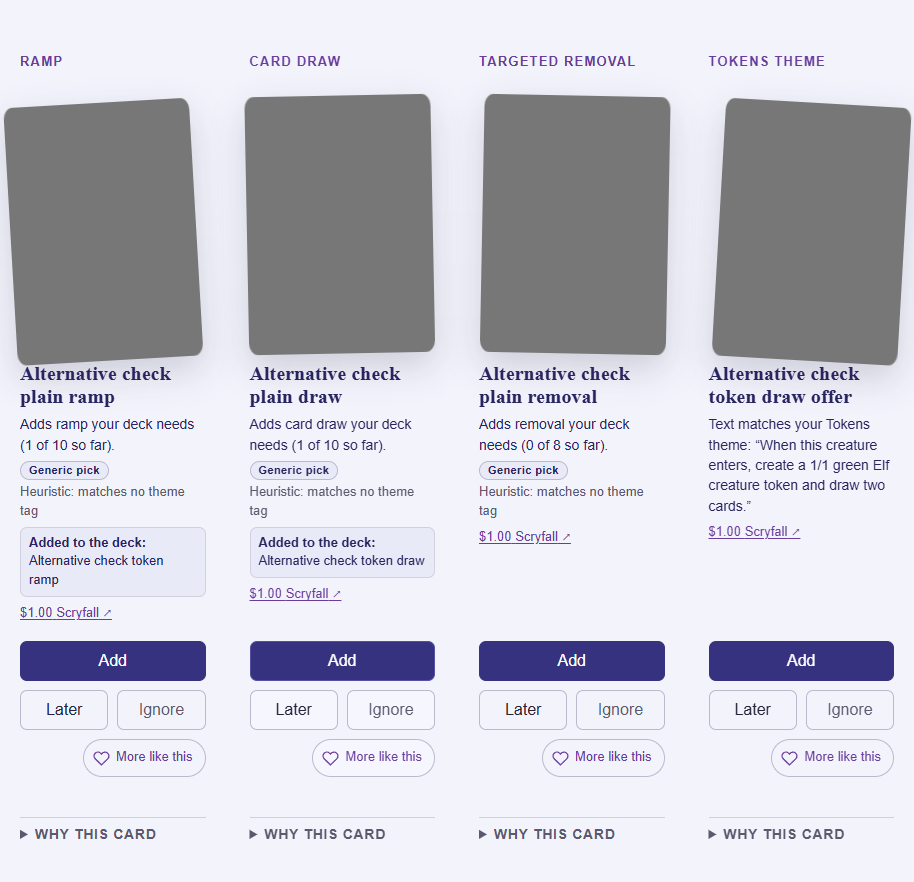
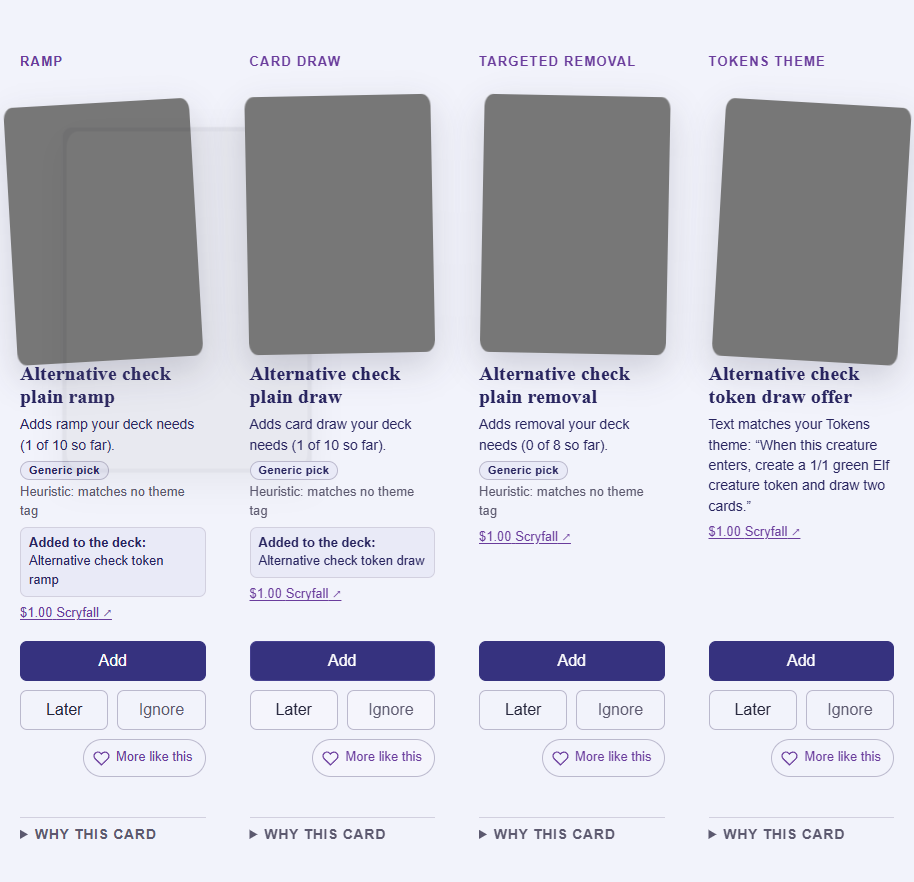
Address #563 review: skip unavailable Later entries and land cards
- Later entries the current pool or price cap excludes stay out of the
  alternative pool, as they stay out of the queue.
- Land cards never take part on either side, even when they also read
  as ramp or draw.
- An add error clears once the pool moves on to another card.
- The contrast gate closes Later & ignored with its close button: its
  state sweep leaves focus on the page, where Escape never reaches the
  dialog.

diff --git a/src/domain/theme-alternative.ts b/src/domain/theme-alternative.ts
@@ -17,20 +17,29 @@ export type ThemeAlternative = {
  * An on-theme card that shares a generic pick's detected role (#563), from the queue or the Later
  * list. Roles and theme tags are both text heuristics, so a match says the detectors agree, not that
  * the two cards do the same job equally well. The offer's roles are tried in detection order, and
- * the pool in its given order, so the first queued card wins over a Later one. Lands are left out:
- * the generic mark is about spells that could carry the theme.
+ * the pool in its given order, so the first queued card wins over a Later one. Land cards are left
+ * out on both sides, even when they also read as ramp or draw: the swap is between spells.
  */
 export function findThemeAlternative(
   offer: Card,
   themes: string[],
   pool: { card: Card; source: AlternativeSource }[],
 ): ThemeAlternative | null {
-  const roles = rolesForCard(offer).filter((role) => role !== 'lands')
-  // Only a generic pick gets one: a theme-matching offer is already on theme.
-  if (!themes.length || !roles.length || themes.some((theme) => hasTag(offer, theme))) return null
+  const offerRoles = rolesForCard(offer)
+  // Only a nonland generic pick gets one: a theme-matching offer is already on theme.
+  if (
+    !themes.length ||
+    offerRoles.includes('lands') ||
+    themes.some((theme) => hasTag(offer, theme))
+  )
+    return null
+  const roles = offerRoles as ThemeAlternative['role'][]
   for (const role of roles)
     for (const { card, source } of pool) {
-      if (card.name === offer.name || !rolesForCard(card).includes(role)) continue
+      const cardRoles = rolesForCard(card)
+      // A land that also reads as ramp or draw would swap a spell for a land slot.
+      if (card.name === offer.name || cardRoles.includes('lands') || !cardRoles.includes(role))
+        continue
       const matched = themes.filter((theme) => hasTag(card, theme))
       if (matched.length) return { card, role, themes: matched, source }
     }

diff --git a/src/domain/theme-alternative.test.ts b/src/domain/theme-alternative.test.ts
@@ -115,3 +115,27 @@ test('no alternative without a role, a pool match or a theme, or for a theme mat
   assert.equal(findThemeAlternative(signet, [], everything), null)
   assert.equal(findThemeAlternative(tokenDraw, ['Tokens'], everything), null)
 })
+
+test('land cards never take part, even when they also read as ramp (#563 review)', () => {
+  // Myriad Landscape's oracle id carries a land-ramp override, so it reads as land and ramp.
+  const landRamp = (name: string, tags: string[] = []) => ({
+    ...card(name, { type_line: 'Land', produced_mana: ['G'], oracle_text: '{T}: Add {G}.' }),
+    oracleId: '2549bc57-9ffb-4053-9f10-f2a5f792b845',
+    tags,
+  })
+  const generic = landRamp('Generic land ramp')
+  const onTheme = landRamp('On-theme land ramp', ['Tokens'])
+  assert.equal(findThemeAlternative(generic, ['Tokens'], pool([[tokenRock, 'queue']])), null)
+  assert.equal(findThemeAlternative(signet, ['Tokens'], pool([[onTheme, 'queue']])), null)
+  assert.equal(
+    findThemeAlternative(
+      signet,
+      ['Tokens'],
+      pool([
+        [onTheme, 'queue'],
+        [tokenRock, 'later'],
+      ]),
+    )?.card,
+    tokenRock,
+  )
+})

diff --git a/src/features/builder/ThemeAlternativeNote.tsx b/src/features/builder/ThemeAlternativeNote.tsx
@@ -33,7 +33,9 @@ export function ThemeAlternativeNote({
 }) {
   // The board is kept from the moment of adding, so a later zone switch cannot relabel it.
   const [added, setAdded] = useState<{ card: Card; board: string } | null>(null)
-  const [error, setError] = useState('')
+  // An error belongs to the card it came from; it clears once the pool moves on to another.
+  const [failure, setFailure] = useState({ name: '', error: '' })
+  const error = failure.name === alternative?.card.name ? failure.error : ''
   const outcome = useRef<HTMLParagraphElement>(null)
   // The Add button leaves with the suggestion; keep focus in the offer, on the outcome.
   useEffect(() => {
@@ -53,8 +55,8 @@ export function ThemeAlternativeNote({
   const { card, role, themes, source } = alternative
   const [label, basis] = roleLabels[role]
   const add = () => {
-    const failure = onAdd(alternative)
-    if (failure) setError(failure)
+    const error = onAdd(alternative)
+    if (error) setFailure({ name: card.name, error })
     else setAdded({ card, board })
   }
   return (

diff --git a/scripts/check-contrast-browser.ts b/scripts/check-contrast-browser.ts
@@ -214,7 +214,8 @@ async function setAsideContrast(page: Page, themeName: string) {
     ...(await lowContrast(page, `${themeName} Later & ignored`)),
     ...(await lowContrastStates(page, `${themeName} Later & ignored`)),
   ]
-  await page.keyboard.press('Escape')
+  // The state sweep ends with focus on the page, where Escape never reaches the dialog.
+  await button(page, 'Close Later and ignored').click()
   await page.setViewportSize({ width: 390, height: 900 })
   await page.getByRole('button', { name: 'Later & ignored (2)', exact: true }).click()
   failures.push(...(await lowContrast(page, `${themeName} Narrow Later & ignored`)))

diff --git a/src/app/useBuilderData.ts b/src/app/useBuilderData.ts
@@ -374,7 +374,10 @@ function themeAlternativeFinder(deps: BuilderDataDeps, batch: Card[]) {
       deps.excludeGameChangers || (deps.limitGameChangers && gameChangersAtLimit(deps.deck)),
     )
   const later = setAsideCards({
-    deferredCards: deps.deferredCards ?? [],
+    // Entries the current pool or price cap left out stay off, as they do for the queue.
+    deferredCards: (deps.deferredCards ?? []).filter(
+      (entry: { available?: boolean }) => entry.available !== false,
+    ),
     ignoredCards: [],
     ignoredDetails: [],
     decisions: deps.decisions ?? {},

diff --git a/src/app/useBuilderData.test.ts b/src/app/useBuilderData.test.ts
@@ -632,6 +632,13 @@ test('generic picks in Theme first get an addable on-theme alternative from the 
     })(offeredDraw),
     null,
   )
+  // A Later entry the current pool or price cap left out is skipped, as the queue skips it.
+  assert.equal(
+    alternatives({
+      deferredCards: [{ card: laterTokenDraw, eligibleBatch: 4, later: true, available: false }],
+    })(offeredDraw),
+    null,
+  )
   // No role, or a theme match: none.
   assert.equal(find(offeredPlain), null)
   assert.equal(find(batchTokenRamp), null)

diff --git a/docs/domain/heuristics.md b/docs/domain/heuristics.md
@@ -37,7 +37,7 @@ Theme-fit reasons (#501) quote the first rules-text sentence, or the type line, 
 
 **Generic pick** (#560): in Theme first, with at least one theme chosen, an offer whose tags match none of the selected themes (`hasTag`, the test theme fit and theme cards use, so changelings count for creature-type themes) carries a "Generic pick" mark, labelled as a heuristic. `explainRecommendation` in `src/app/useBuilderData.ts` sets it; theme-fit offers never get it. "Generic" means only that no theme tag fired. The mark ignores roles, EDHREC inclusion and card quality, so it does not tell a staple from a niche off-theme card, and it never changes ranking. Missed wording marks cards that do serve the theme; broad tags leave generic cards unmarked. Never call it a staple verdict, an off-theme proof or a cut suggestion.
 
-**On-theme alternative** (#563): beside a generic pick with a detected non-land role (ramp, card draw, targeted removal or board wipe, from `rolesForCard`), the offer names one card from the queue past the batch or the Later list that has the same role and matches a selected theme (`hasTag`). `findThemeAlternative` in `src/domain/theme-alternative.ts` picks it: the offer's roles in detection order, then the pool in order (ranked queue first, then Later by return), skipping cards Add could not take now (`recommendationDataError` against the add board). `themeAlternativeFinder` in `src/app/useBuilderData.ts` builds the pool. Both checks are text heuristics: a match means the detectors agree, not that the cards do the job equally well, and the alternative is not ranked against the offer by power, cost or EDHREC share. Lands are left out. Undecided skips waiting to return, ignored cards and cards outside the queue are never searched, so a missing alternative does not mean none exists. It is display only and never changes ranking. Adding it keeps the batch and leaves the offer undecided. Never call it a better card, an upgrade or a replacement the deck needs.
+**On-theme alternative** (#563): beside a nonland generic pick with a detected role (ramp, card draw, targeted removal or board wipe, from `rolesForCard`), the offer names one card from the queue past the batch or the Later list that has the same role and matches a selected theme (`hasTag`). `findThemeAlternative` in `src/domain/theme-alternative.ts` picks it: the offer's roles in detection order, then the pool in order (ranked queue first, then Later by return), skipping cards Add could not take now (`recommendationDataError` against the add board). `themeAlternativeFinder` in `src/app/useBuilderData.ts` builds the pool. Both checks are text heuristics: a match means the detectors agree, not that the cards do the job equally well, and the alternative is not ranked against the offer by power, cost or EDHREC share. Land cards are left out on both sides, even ones that also read as ramp or draw. Later entries the current pool or price cap excludes (`available: false`) are skipped, as the queue skips them. Undecided skips waiting to return, ignored cards and cards outside the queue are never searched, so a missing alternative does not mean none exists. It is display only and never changes ranking. Adding it keeps the batch and leaves the offer undecided. Never call it a better card, an upgrade or a replacement the deck needs.
 
 ## Expected opponents
 
